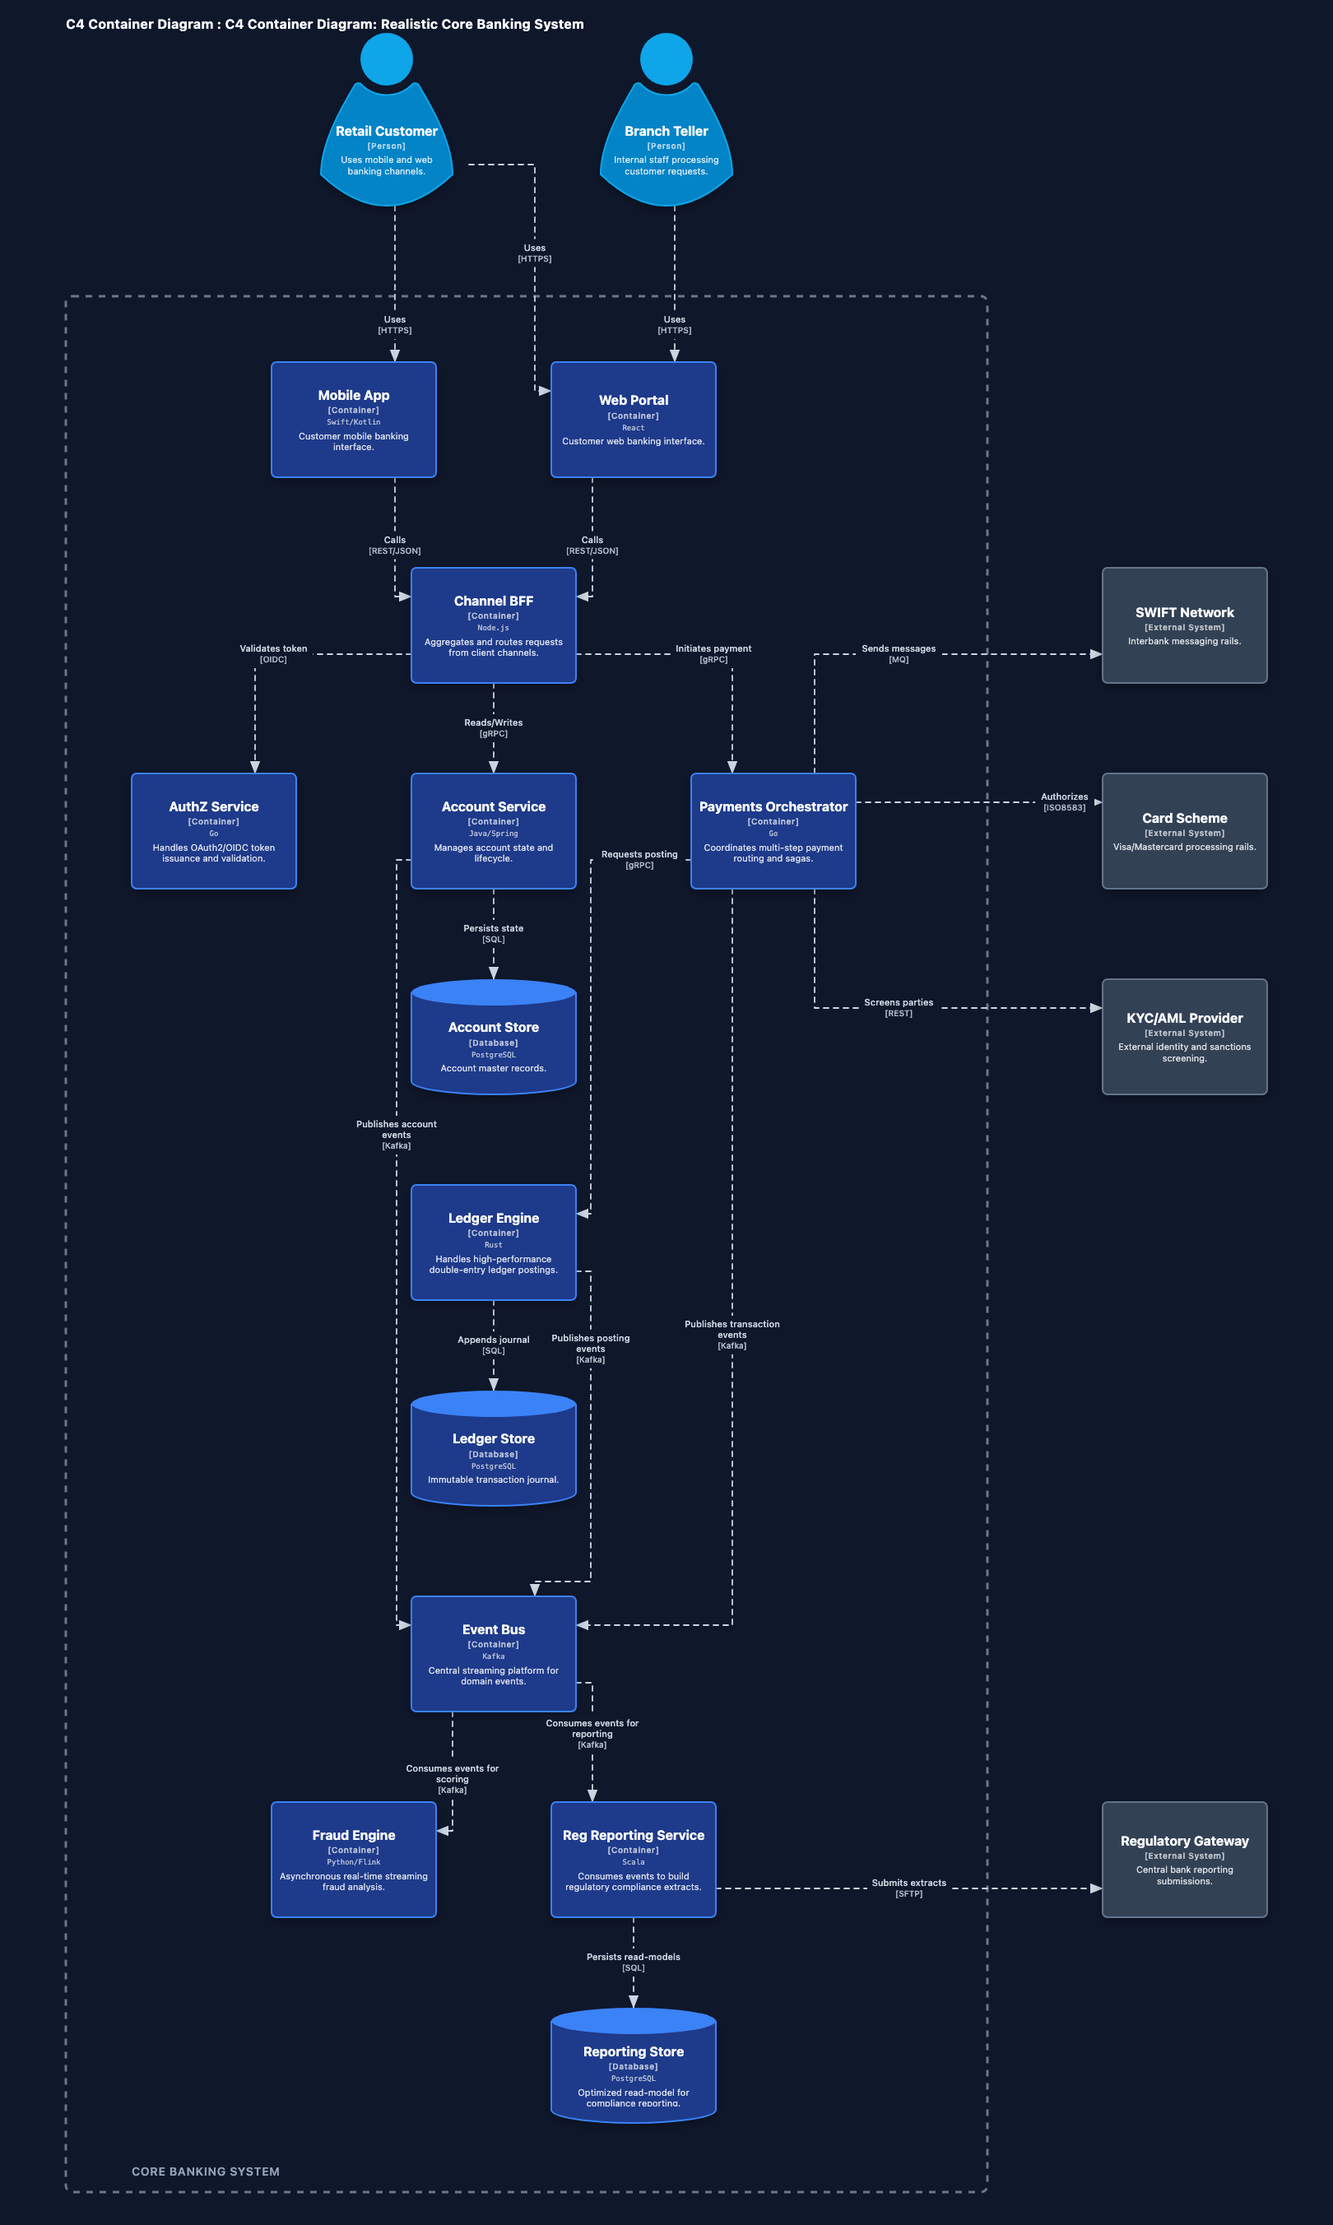
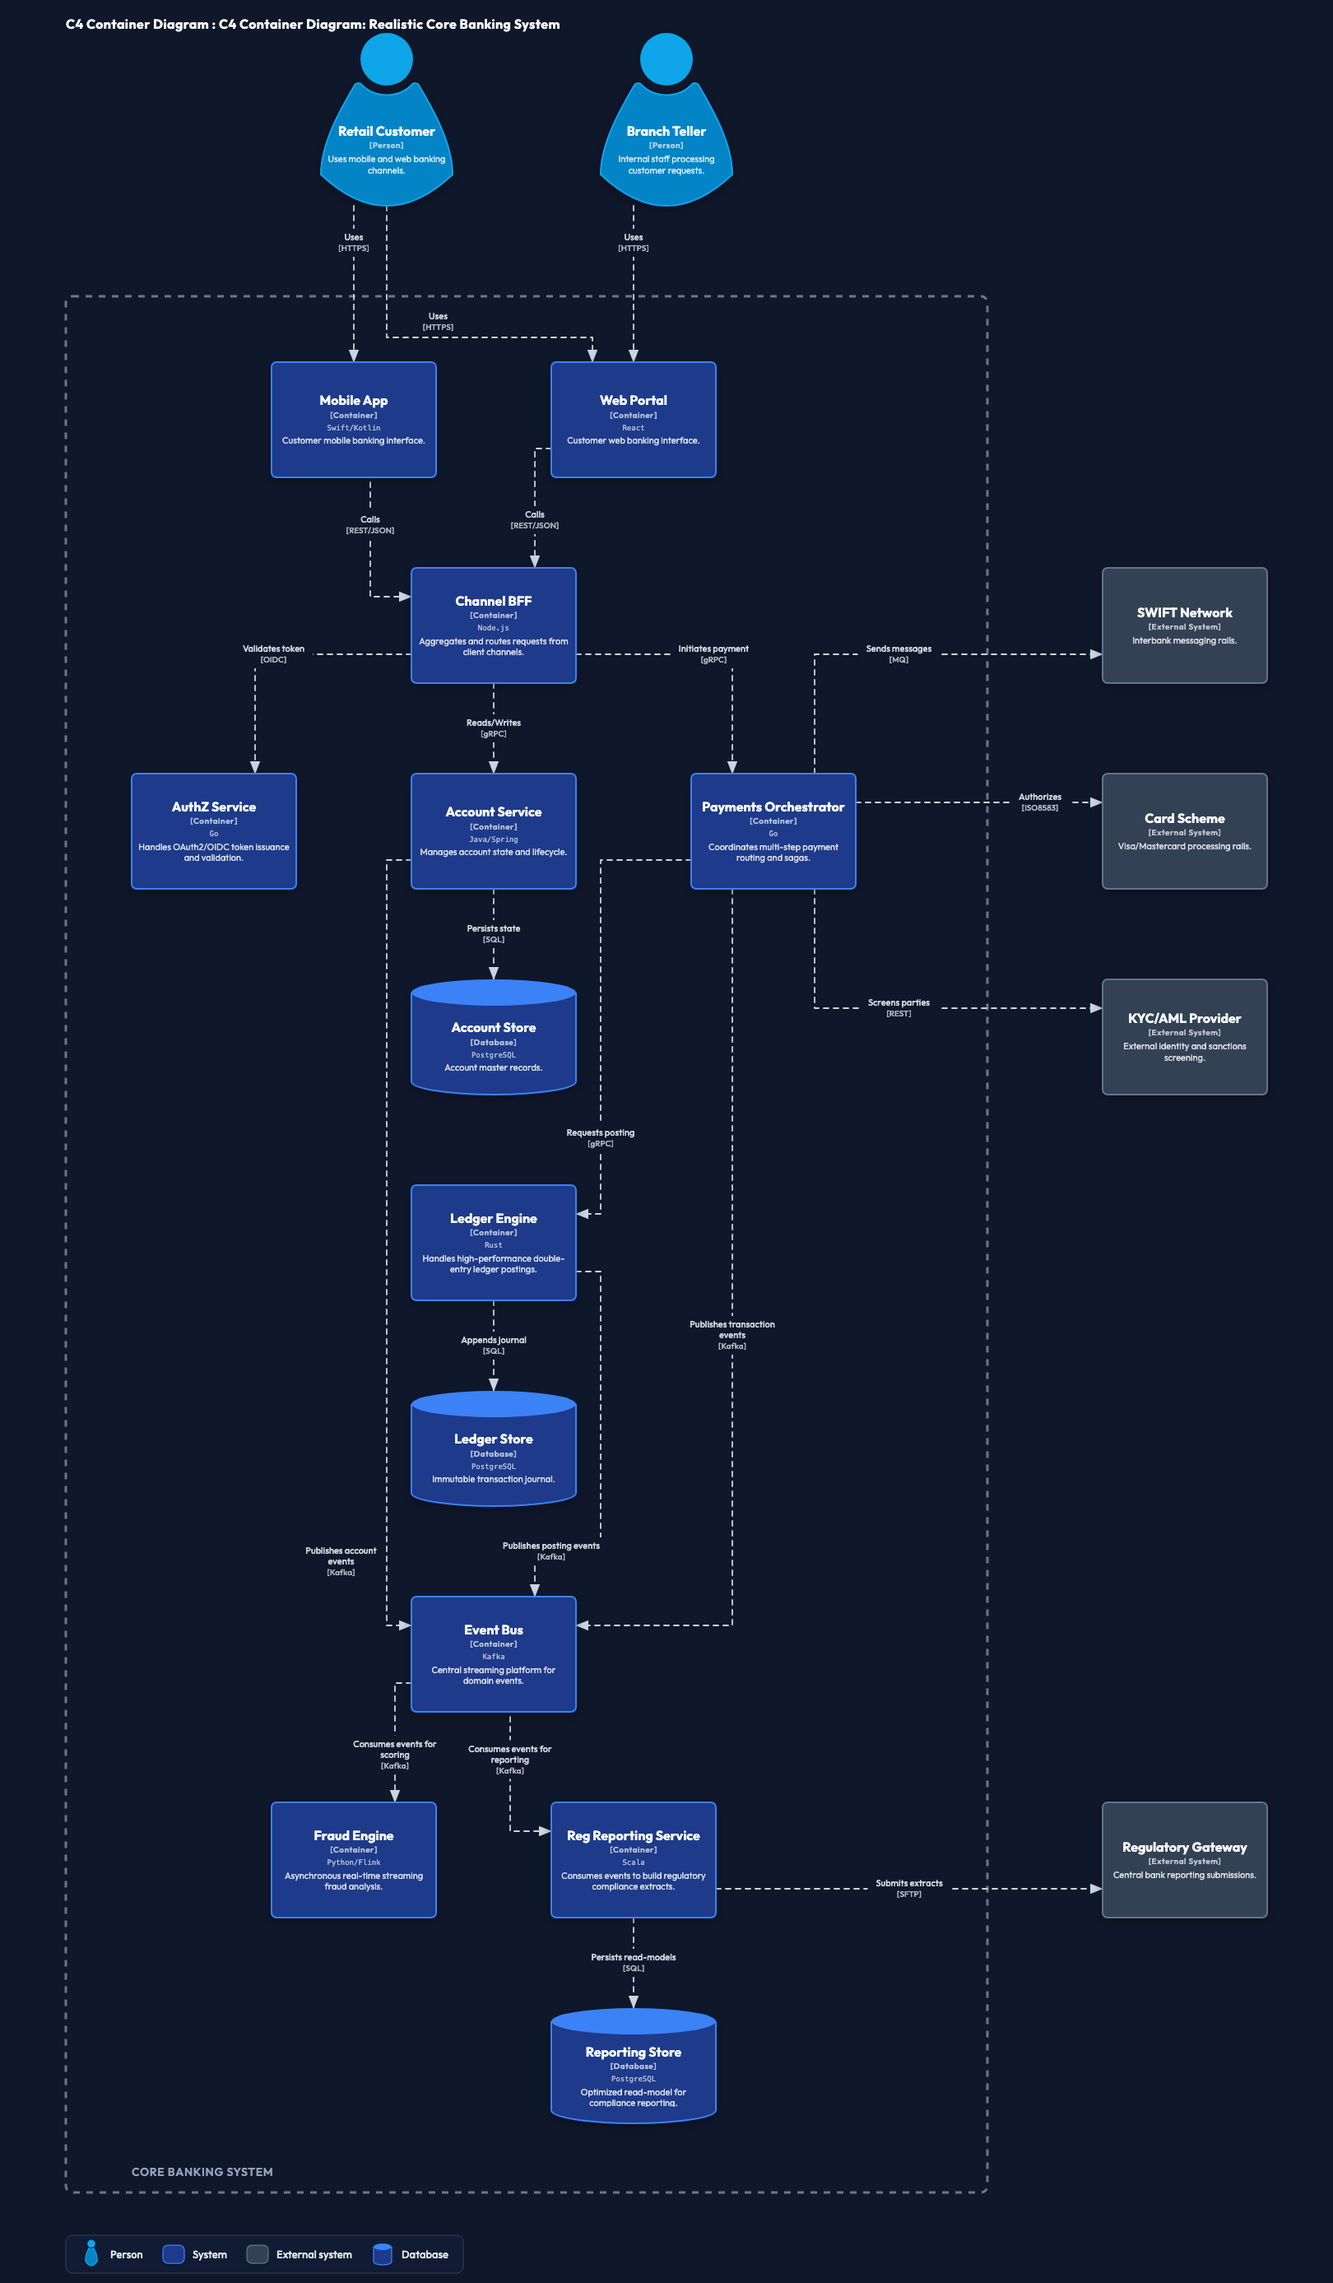
docs: sync planning docs with landed July work, regenerate stale renders
- connection-label-crowding-plan.md: status banner mapping each stage to
  how it actually landed; only Stage F Option C remains
- container-diagram-layout.md: severity.js scoring, MAX_LABEL_WIDTH 120,
  adaptive re-wrap + UNSATISFIABLE outcome, notes & legend section,
  ratchet/gate reality in Known Limitations
- IMPROVEMENT_PLAN.md: fix INC-9 -> INC-12 cross-reference
- core-banking comparison: inline Mermaid re-synced to the fixture source
- regenerate search_service_container and core-banking-single-boundary
  renders through the current pipeline (legend included)
- remove unreferenced images: example_output.png, MermaidBefore.png,
  core-banking-single-boundary-before.png
- package-lock.json: re-sync with package.json (devDependencies split,
  engines >=20)

diff --git a/docs/core-banking-single-boundary-comparison.md b/docs/core-banking-single-boundary-comparison.md
@@ -6,57 +6,79 @@
 
 Optimized SVG version: [core-banking-single-boundary.svg](./core-banking-single-boundary.svg)
 
-Source Mermaid:
+Source Mermaid (canonical copy: [test/fixtures/diagrams/core/core-banking-single-boundary.mermaid](../test/fixtures/diagrams/core/core-banking-single-boundary.mermaid) — regenerate the optimized images from it with `node src/cli/index.js <fixture> --out <dir>`):
 
 ```mermaid
 C4Container
-    title Core Banking System - Container View
+    title C4 Container Diagram: Realistic Core Banking System
 
-    Person(customer, "Retail Customer", "Uses mobile and web banking")
-    Person(teller, "Branch Teller", "Internal staff")
-    System_Ext(swift, "SWIFT Network", "Interbank messaging")
-    System_Ext(card, "Card Scheme", "Visa/Mastercard rails")
-    System_Ext(kyc, "KYC/AML Provider", "Identity & sanctions screening")
-    System_Ext(regulator, "Regulatory Reporting Gateway", "Central bank submissions")
+    Person(customer, "Retail Customer", "Uses mobile and web banking channels.")
+    Person(teller, "Branch Teller", "Internal staff processing customer requests.")
 
-    System_Boundary(bank, "Core Banking System") {
-        Container(mobile, "Mobile App", "Swift/Kotlin", "Customer mobile banking")
-        Container(web, "Web Portal", "React", "Customer web banking")
-        Container(bff, "Channel BFF", "Node.js", "Backend-for-frontend aggregation")
-        Container(authz, "AuthZ Service", "Go", "OAuth2/OIDC token issuance")
-        Container(accounts, "Account Service", "Java/Spring", "Account lifecycle")
-        Container(ledger, "Ledger Engine", "Rust", "Double-entry posting")
-        Container(payments, "Payments Orchestrator", "Go", "Payment routing & saga")
-        Container(fraud, "Fraud Engine", "Python", "Real-time scoring")
-        Container(screening, "Screening Service", "Java", "Sanctions/PEP checks")
-        Container(reporting, "Reg Reporting Service", "Scala", "Builds regulatory extracts")
-        ContainerQueue(eventbus, "Event Bus", "Kafka", "Domain events")
-        ContainerDb(txndb, "Ledger Store", "PostgreSQL", "Immutable journal")
-        ContainerDb(acctdb, "Account Store", "PostgreSQL", "Account master")
+    System_Boundary(core_banking, "Core Banking System") {
+
+        Container(mobile, "Mobile App", "Swift/Kotlin", "Customer mobile banking interface.")
+        Container(web, "Web Portal", "React", "Customer web banking interface.")
+
+        Container(bff, "Channel BFF", "Node.js", "Aggregates and routes requests from client channels.")
+
+        Container(auth, "AuthZ Service", "Go", "Handles OAuth2/OIDC token issuance and validation.")
+
+        Container(account_service, "Account Service", "Java/Spring", "Manages account state and lifecycle.")
+        ContainerDb(account_db, "Account Store", "PostgreSQL", "Account master records.")
+
+        Container(payment_orch, "Payments Orchestrator", "Go", "Coordinates multi-step payment routing and sagas.")
+
+        Container(ledger_engine, "Ledger Engine", "Rust", "Handles high-performance double-entry ledger postings.")
+        ContainerDb(ledger_db, "Ledger Store", "PostgreSQL", "Immutable transaction journal.")
+
+        Container(event_bus, "Event Bus", "Kafka", "Central streaming platform for domain events.")
+
+        Container(fraud_engine, "Fraud Engine", "Python/Flink", "Asynchronous real-time streaming fraud analysis.")
+        Container(reg_service, "Reg Reporting Service", "Scala", "Consumes events to build regulatory compliance extracts.")
+        ContainerDb(reg_db, "Reporting Store", "PostgreSQL", "Optimized read-model for compliance reporting.")
     }
 
+    System_Ext(swift, "SWIFT Network", "Interbank messaging rails.")
+    System_Ext(card_scheme, "Card Scheme", "Visa/Mastercard processing rails.")
+    System_Ext(kyc_provider, "KYC/AML Provider", "External identity and sanctions screening.")
+    System_Ext(reg_gateway, "Regulatory Gateway", "Central bank reporting submissions.")
+
+    %% Client and Edge Relationships
     Rel(customer, mobile, "Uses", "HTTPS")
     Rel(customer, web, "Uses", "HTTPS")
     Rel(teller, web, "Uses", "HTTPS")
+
     Rel(mobile, bff, "Calls", "REST/JSON")
     Rel(web, bff, "Calls", "REST/JSON")
-    Rel(bff, authz, "Validates token", "OIDC")
-    Rel(bff, accounts, "Reads/writes", "gRPC")
-    Rel(bff, payments, "Initiates payment", "gRPC")
-    Rel(accounts, acctdb, "Persists", "SQL")
-    Rel(accounts, ledger, "Requests posting", "gRPC")
-    Rel(ledger, txndb, "Appends journal", "SQL")
-    Rel(payments, ledger, "Posts settlement", "gRPC")
-    Rel(payments, fraud, "Scores txn", "gRPC")
-    Rel(payments, screening, "Screens party", "REST")
-    Rel(payments, swift, "Sends message", "MQ")
-    Rel(payments, card, "Authorizes", "ISO8583")
-    Rel(screening, kyc, "Checks", "REST")
-    Rel(accounts, eventbus, "Publishes events", "Kafka")
-    Rel(ledger, eventbus, "Publishes postings", "Kafka")
-    Rel(payments, eventbus, "Publishes events", "Kafka")
-    Rel(fraud, eventbus, "Consumes events", "Kafka")
-    Rel(reporting, eventbus, "Consumes events", "Kafka")
-    Rel(reporting, txndb, "Reads journal", "SQL")
-    Rel(reporting, regulator, "Submits", "SFTP")
+
+    Rel_R(bff, auth, "Validates token", "OIDC")
+
+    %% Core Domain Services
+    Rel(bff, account_service, "Reads/Writes", "gRPC")
+    Rel(bff, payment_orch, "Initiates payment", "gRPC")
+
+    Rel(account_service, account_db, "Persists state", "SQL")
+
+    %% Asynchronous Event Flows (Fixing the spaghetti and database sharing)
+    Rel(account_service, event_bus, "Publishes account events", "Kafka")
+    Rel(payment_orch, event_bus, "Publishes transaction events", "Kafka")
+    Rel(ledger_engine, event_bus, "Publishes posting events", "Kafka")
+
+    %% Ledger isolation
+    Rel(payment_orch, ledger_engine, "Requests posting", "gRPC")
+    Rel(ledger_engine, ledger_db, "Appends journal", "SQL")
+
+    %% Stream Consumers
+    Rel(event_bus, fraud_engine, "Consumes events for scoring", "Kafka")
+    Rel(event_bus, reg_service, "Consumes events for reporting", "Kafka")
+
+    Rel(reg_service, reg_db, "Persists read-models", "SQL")
+
+    %% External Systems Interfacing
+    Rel_R(payment_orch, swift, "Sends messages", "MQ")
+    Rel_R(payment_orch, card_scheme, "Authorizes", "ISO8583")
+    Rel_R(payment_orch, kyc_provider, "Screens parties", "REST")
+
+    Rel_R(reg_service, reg_gateway, "Submits extracts", "SFTP")
 ```

diff --git a/docs/container-diagram-layout.md b/docs/container-diagram-layout.md
@@ -209,8 +209,21 @@ After the absolute layout positions are computed, the edges and their descriptio
    This prioritizes candidates that avoid nodes, already-placed labels, and other connection lines, while still preferring segments that are far from surrounding nodes and have sufficient length. Once the segment is chosen, the label coordinates are clamped to the safe inner bounds of the segment.
 5. **Default Fallback**: If all else fails, the label defaults to the absolute middle of the start/end points.
 
-### 3c: Text Wrapping
-Labels containing technology notes (e.g. `Relationship Label [JSON/HTTPS]`) are split. The main description label is wrapped automatically into multiple lines based on `MAX_LABEL_WIDTH` (160px), and the technology label is positioned underneath with a smaller, semi-transparent font style.
+### 3c: Text Wrapping & Adaptive Re-Wrap
+Labels containing technology notes (e.g. `Relationship Label [JSON/HTTPS]`) are split. The main description label is wrapped automatically into multiple lines based on `MAX_LABEL_WIDTH` (120px), and the technology label is positioned underneath with a smaller, semi-transparent font style.
+
+Placement is a constrained search over label *geometry*, not just position: when no candidate keeps the label on the canvas at full width, the search retries with the label re-wrapped narrower and taller (120 → 92 → 72 → 56px). If no width yields an in-canvas position, the outcome is declared **UNSATISFIABLE** — the label is clamped back inside the canvas, marked in the SVG (`class="edge-label-bg-crowded"`, `data-nudge-unsatisfiable="<reason>"`), and reported through `warnings` on every entry point. UNSATISFIABLE means specifically "no in-canvas position exists"; burial and label-label overlap remain scored defects held flat by the quality ratchet (see [IMPROVEMENT_PLAN.md](IMPROVEMENT_PLAN.md) INC-16).
+
+---
+
+## Post-Layout Annotations — Notes & Legend
+
+**File:** `src/render_engine.js` (orchestration), `src/renderer/svg/legend.js`
+
+After layout, routing and label placement, two annotation passes run:
+
+- **Notes** (`note` entries attached to architecture elements) are positioned post-layout — they are annotations, not layout participants, so they never influence element placement or routing. Candidate positions around the annotated element are scored through the shared severity model (`noteOverlap`, `noteLineCrossing` in `src/core/severity.js`), accepted overrides can arrive via `_layoutOverrides.notePlacements`, and the canvas grows to fit any note extending past the element bounds. Unplaceable notes are reported through `warnings`.
+- **Legend** — a horizontal legend is rendered bottom-left containing only the element kinds actually present in the diagram (person, system in scope, internal system, external system, database, message bus). Its icons reuse the real shape drawers from `architecture_element_shapes.js`, so they cannot drift from the full-size elements. The canvas reserves vertical space for it after note placement.
 
 ---
 
@@ -254,18 +267,14 @@ The rendered candidate is saved as `step_1_label_hints.png` and accepted only if
 
 ### Candidate scoring and outputs
 
-Every candidate is scored by `scoreContainerStep` in `src/core/optimizer.js`:
-
-```
-overlaps * 100000
-+ edge-node crossings * 100000
-+ edge-edge crossings * 500
-+ edge overlaps * 500
-+ edge overlap pixels * 2
-+ label-edge intersections * 250
-+ bends * 4
-+ route length * 0.02
-```
+Every candidate is scored by `scoreLayout` from `src/core/severity.js` — the single declared
+severity ordering shared by the optimizer, the label placer, and the test suite
+(`scoreContainerStep` in `src/core/optimizer.js` is now a thin wrapper around it). The ordering,
+hardest failure first: Element Overlap → Connection-Line Element Crossing → Connection-Label
+Element Crossing / off-canvas label → Label-Label Overlap → Connection-Line Overlap →
+Connection-Line Crossing → Label-Line Intersection. Shape costs (bends, route length, overlap
+pixels) are tiebreakers only and can never outrank a defect. See the `SEVERITY` and `SHAPE_COST`
+tables in `src/core/severity.js` for the exact weights and the rationale for the ordering.
 
 Only non-worsening candidates become the accepted state. The final accepted state is exported as `optimized.png` and `optimized.svg`. If any LLM hint call returned data, the raw responses are saved to `visual_hints.json`.
 
@@ -312,4 +321,4 @@ All edge coordinates are absolute. The `drawGraph` function uses `flattenNodes` 
 - **No cycle detection warning:** A cycle in the boundary's internal edges is silently broken — all-cycle graphs seed Layer 0 with the most source-like element(s), and any remaining stuck nodes are dumped into a final layer.
 - **Legacy checkpoint helpers remain in `llm_client.js`:** `getLLMZoneVerification` and `getLLMRoutingVerification` are still present for older experiments, but the active container optimizer imports the visual-hint functions instead.
 - **Edge routing is grid-based pathfinding:** The grid router uses A* over a visibility graph, rip-up-and-reroute, and channel nudging to find optimal collision-free paths, falling back to legacy candidate routing when necessary. Crossings are expensive but not impossible, preventing long and visually awkward detours.
-- **Post-render edge-to-edge scoring is observational:** The renderer uses edge-conflict scoring while choosing routes, and the test suite reports edge-edge crossings, overlaps, overlap pixels, label-edge intersections, bends, and route length. These metrics do not currently fail tests, so renderer changes that affect line corridors should still be reviewed visually.
+- **Every defect class is ratcheted; three gate absolutely.** `npm test` asserts the per-fixture defect vectors in `test/fixtures/baselines/quality_baseline.json` — no count may increase, and improvements require a visible re-baseline in the diff. Element Overlap, Connection-Line Element Crossing, and Connection-Label Element Crossing additionally gate `success` absolutely; the remaining classes (line crossings/overlaps, label-line intersections, label-label overlaps) are ratchet-only. See [IMPROVEMENT_PLAN.md](IMPROVEMENT_PLAN.md) INC-6/INC-8.

diff --git a/docs/connection-label-crowding-plan.md b/docs/connection-label-crowding-plan.md
@@ -1,9 +1,29 @@
 # Implementation plan — Connection Label crowding
 
-Status: **plan, revised twice** — no code changed
+Status: **largely landed — only Stage F Option C remains** (updated 2026-07-26)
 Date: 2026-07-21
 Implements: [IMPROVEMENT_PLAN.md](IMPROVEMENT_PLAN.md) increments INC-2, INC-4, INC-12 (Options G, F, C — see Appendix D)
 Revision: v3. v1 scored 3.5/10, v2 6.5/10 on independent review; §10 records what changed.
+
+> **What landed, and how it diverged from this plan.** The work executed through the
+> IMPROVEMENT_PLAN increments rather than stage-by-stage as written here:
+>
+> - **Stage A** (fixture + baseline path) — landed as `6bf2988` / `922d3d5`.
+> - **Stage B** (idempotent renders) — landed as INC-2, then **superseded by INC-9**: text is
+>   measured against a baked glyph-metrics table (`src/vendor/outfit_metrics.js`), so layout no
+>   longer depends on webfont loading at all. The self-hosting question §3 raises is resolved.
+> - **Stage C** (critic repair) — landed as `ae1e69c` / `c34100d` plus INC-3's counters.
+> - **Stages D + E** (frozen target table + `--compare` gate) — realised differently, as the
+>   **INC-6 quality ratchet**: per-fixture defect vectors in
+>   `test/fixtures/baselines/quality_baseline.json`, asserted by `npm test` (no count may rise).
+> - **Stage F** — **partially landed** via INC-12: the 7a obstacle double-charge fix and the
+>   two-axis nudge (`nudgeLabelClear`) shipped. **Option C — the waterfall→argmin collapse
+>   (7d+7e) — has not**: `chooseInitialLabelPlacement`, `createCandidateScorer` and
+>   `sameTargetScore` still exist. INC-12 defers it to ride with INC-16 follow-up work.
+> - **Stage G** (gating) — landed as INC-8's two-tier gate/ratchet split.
+>
+> The sections below are kept as the detailed spec for the remaining Option C work; treat their
+> line numbers and "does not exist yet" claims as of 2026-07-21.
 
 ---
 

diff --git a/docs/IMPROVEMENT_PLAN.md b/docs/IMPROVEMENT_PLAN.md
@@ -36,7 +36,7 @@ remaining +2 are the two Connection-Line Crossings the new third-party corpus br
 
 **Still-separate documents (not folded in — different kind of doc):**
 - [connection-label-crowding-plan.md](connection-label-crowding-plan.md) — the ready-to-execute
-  spec for the label increments (INC-2, INC-4, INC-9). Referenced, not duplicated.
+  spec for the label increments (INC-2, INC-4, INC-12). Referenced, not duplicated.
 - [container-diagram-layout.md](container-diagram-layout.md) — architecture *reference* for the
   container/context pipeline. Describes how it works, not how to change it.
 - [nudge_next_generation_design.md](nudge_next_generation_design.md) — the north-star design
